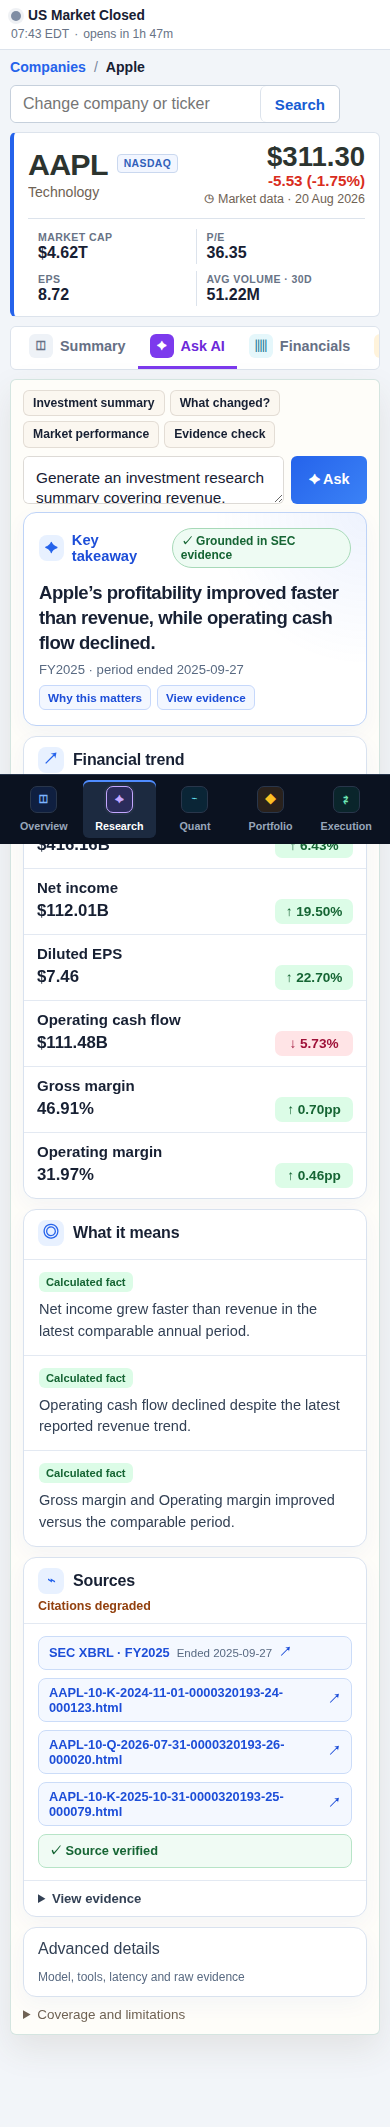
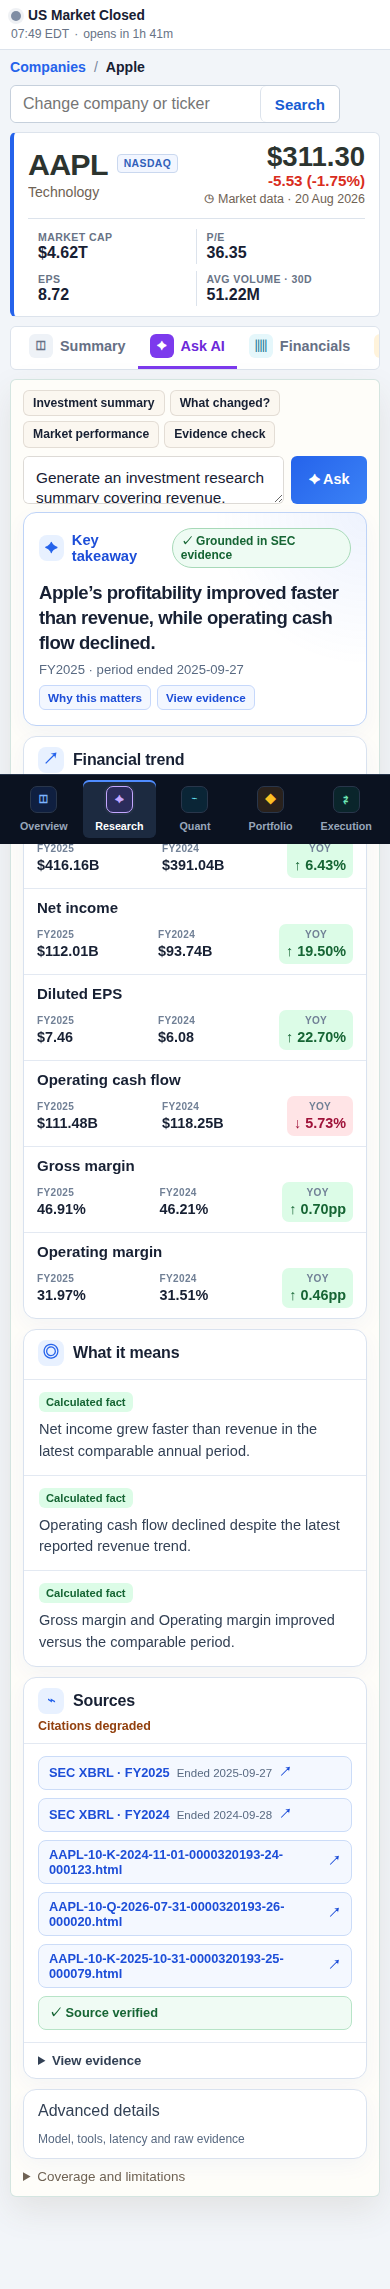
Add prior-period financial comparisons

diff --git a/apps/web/app/research/research-copilot.tsx b/apps/web/app/research/research-copilot.tsx
@@ -57,6 +57,12 @@ export function ResearchAnswerResult({ answer }: { answer: ResearchAnswer }) {
   const presentation = answer.presentation;
   const view = buildResearchAnswerView(answer);
   const { takeaway, interpretations, sources, metrics } = view;
+  const currentPeriodLabel = presentation?.period.fiscal_year
+    ? `FY${presentation.period.fiscal_year}`
+    : "Latest period";
+  const previousPeriodLabel = presentation?.period.previous_fiscal_year
+    ? `FY${presentation.period.previous_fiscal_year}`
+    : "Previous period";
 
   return (
     <div className="research-answer" aria-live="polite">
@@ -86,19 +92,21 @@ export function ResearchAnswerResult({ answer }: { answer: ResearchAnswer }) {
         <section className="research-metric-comparison" aria-labelledby="research-metric-title">
           <div className="research-result-section-title">
             <div><span aria-hidden="true">↗</span><h3 id="research-metric-title">Financial trend</h3></div>
-            <small>Latest comparable annual period</small>
+            <small>{currentPeriodLabel} versus {previousPeriodLabel}</small>
           </div>
           <div className="research-metric-table" role="table" aria-label="Financial metric comparison">
             <div className="research-metric-row is-heading" role="row">
               <span role="columnheader">Metric</span>
-              <span role="columnheader">Latest period</span>
-              <span role="columnheader">Change</span>
+              <span role="columnheader">{currentPeriodLabel}</span>
+              <span role="columnheader">{previousPeriodLabel}</span>
+              <span role="columnheader">YoY</span>
             </div>
             {metrics.map((metric) => (
               <div className="research-metric-row" role="row" key={metric.key}>
                 <strong role="cell">{metric.label}</strong>
-                <span role="cell" className="research-metric-value">{metric.formatted_value}</span>
-                <span role="cell" className={`research-metric-change is-${metric.direction}`}>
+                <span role="cell" className="research-metric-value" data-label={currentPeriodLabel}>{metric.formatted_value}</span>
+                <span role="cell" className="research-metric-value is-previous" data-label={previousPeriodLabel}>{metric.formatted_previous_value ?? "—"}</span>
+                <span role="cell" className={`research-metric-change is-${metric.direction}`} data-label="YoY">
                   {metric.formatted_change}
                 </span>
               </div>

diff --git a/apps/web/app/globals.css b/apps/web/app/globals.css
@@ -5181,7 +5181,7 @@ select {
 
 .research-metric-row {
   display: grid;
-  grid-template-columns: minmax(190px, 1.35fr) minmax(130px, 0.7fr) minmax(110px, 0.55fr);
+  grid-template-columns: minmax(190px, 1.25fr) minmax(125px, 0.7fr) minmax(125px, 0.7fr) minmax(100px, 0.5fr);
   align-items: center;
   min-height: 52px;
   padding: 0 16px;
@@ -5210,6 +5210,16 @@ select {
   font-size: 1.05rem;
   font-variant-numeric: tabular-nums;
   font-weight: 780;
+}
+
+.research-metric-value.is-previous {
+  color: #c6d2e1;
+  font-weight: 680;
+}
+
+.research-metric-value::before,
+.research-metric-change::before {
+  display: none;
 }
 
 .research-metric-change {
@@ -5671,8 +5681,8 @@ select {
   }
 
   .research-metric-row {
-    grid-template-columns: 1fr auto;
-    gap: 3px 12px;
+    grid-template-columns: minmax(0, 1fr) minmax(0, 1fr) auto;
+    gap: 8px 10px;
     padding: 10px 13px;
   }
 
@@ -5682,6 +5692,30 @@ select {
 
   .research-metric-row > strong {
     grid-column: 1 / -1;
+  }
+
+  .research-metric-value,
+  .research-metric-change {
+    min-width: 0;
+    font-size: 0.9rem;
+  }
+
+  .research-metric-value::before,
+  .research-metric-change::before {
+    content: attr(data-label);
+    display: block;
+    margin-bottom: 3px;
+    color: #718096;
+    font-size: 0.63rem;
+    font-weight: 750;
+    letter-spacing: 0.03em;
+    text-transform: uppercase;
+  }
+
+  .research-metric-change {
+    display: block;
+    padding: 5px 7px;
+    text-align: center;
   }
 
   .research-interpretation li {

diff --git a/apps/web/lib/api.ts b/apps/web/lib/api.ts
@@ -925,6 +925,7 @@ export type ResearchEvidence = {
 
 export type ResearchPresentationSourceDetail = {
   evidence_id?: string | null;
+  period_end?: string | null;
   provider: string;
   taxonomy?: string | null;
   concept?: string | null;
@@ -943,11 +944,14 @@ export type ResearchPresentationMetric = {
   value: number | null;
   unit: string;
   formatted_value: string;
+  previous_value?: number | null;
+  formatted_previous_value?: string;
   change?: number | null;
   change_unit: "percent" | "percentage_points";
   formatted_change: string;
   direction: "up" | "down" | "flat" | "unavailable";
   period_end?: string | null;
+  previous_period_end?: string | null;
   calculation?: string;
   sources: ResearchPresentationSourceDetail[];
 };
@@ -961,6 +965,8 @@ export type ResearchPresentation = {
     basis?: "annual" | "quarterly" | null;
     fiscal_year?: number | null;
     end_date?: string | null;
+    previous_fiscal_year?: number | null;
+    previous_end_date?: string | null;
   };
   metrics: ResearchPresentationMetric[];
   interpretations: Array<{ kind: "deterministic" | "model_inference"; text: string }>;

diff --git a/apps/web/app/research/research-answer-view.test.ts b/apps/web/app/research/research-answer-view.test.ts
@@ -40,6 +40,8 @@ function answerFixture(): ResearchAnswer {
         value: 416_161_000_000,
         unit: "USD",
         formatted_value: "$416.16B",
+        previous_value: 391_035_000_000,
+        formatted_previous_value: "$391.04B",
         change: 6.43,
         change_unit: "percent",
         formatted_change: "↑ 6.43%",
@@ -74,6 +76,7 @@ test("uses server presentation fields instead of parsing the raw answer", () => 
   const view = buildResearchAnswerView(answerFixture());
   assert.equal(view.takeaway, "Apple’s profitability improved faster than revenue, while operating cash flow declined.");
   assert.equal(view.metrics[0].formatted_value, "$416.16B");
+  assert.equal(view.metrics[0].formatted_previous_value, "$391.04B");
   assert.equal(view.metrics[0].formatted_change, "↑ 6.43%");
   assert.equal(view.takeaway.includes("us_stock_daily_metrics"), false);
   assert.equal(view.takeaway.includes("6.80000000000001"), false);

diff --git a/apps/api/app/services/research.py b/apps/api/app/services/research.py
@@ -713,10 +713,11 @@ def _format_presentation_change(value: Any, *, percentage_points: bool = False) 
 
 
 def _financial_source_detail(
-    *, fact: dict[str, Any], evidence_id: str | None = None
+    *, fact: dict[str, Any], evidence_id: str | None = None, period_end: str | None = None
 ) -> dict[str, Any]:
     return {
         "evidence_id": evidence_id,
+        "period_end": period_end,
         "provider": "SEC XBRL Company Facts",
         "taxonomy": fact.get("taxonomy"),
         "concept": fact.get("concept"),
@@ -778,41 +779,74 @@ def _build_research_presentation(
 ) -> dict[str, Any]:
     """Build customer-facing fields entirely from server-side structured evidence."""
     latest = (financial_summary or {}).get("latest_annual") or {}
+    previous = (financial_summary or {}).get("previous_annual") or {}
     facts = latest.get("metrics") or {}
     derived = latest.get("derived") or {}
+    previous_facts = previous.get("metrics") or {}
+    previous_derived = previous.get("derived") or {}
     changes = (financial_summary or {}).get("annual_changes") or {}
     end_date = latest.get("end_date")
     fiscal_year = latest.get("fiscal_year")
+    previous_end_date = previous.get("end_date")
+    previous_fiscal_year = previous.get("fiscal_year")
+    if (
+        fiscal_year is not None
+        and previous_fiscal_year is not None
+        and previous_end_date
+        and end_date
+        and str(previous_end_date) < str(end_date)
+        and int(previous_fiscal_year) >= int(fiscal_year)
+    ):
+        # SEC comparative facts may retain the filing's FY context even though
+        # their period end belongs to the preceding fiscal year.
+        previous_fiscal_year = int(fiscal_year) - 1
     metrics: list[dict[str, Any]] = []
 
     for key, label in PRESENTATION_METRICS:
         fact = facts.get(key)
         if not fact:
             continue
+        previous_fact = previous_facts.get(key) or {}
         formatted_change, direction = _format_presentation_change(changes.get(key))
+        source_details = [
+            _financial_source_detail(
+                fact=fact,
+                evidence_id=f"sec-xbrl-{key}-{end_date}" if end_date else None,
+                period_end=end_date,
+            )
+        ]
+        if previous_fact:
+            source_details.append(
+                _financial_source_detail(
+                    fact=previous_fact,
+                    evidence_id=f"sec-xbrl-{key}-{previous_end_date}" if previous_end_date else None,
+                    period_end=previous_end_date,
+                )
+            )
         metrics.append({
             "key": key,
             "label": label,
             "value": fact.get("value"),
             "unit": fact.get("unit"),
             "formatted_value": _format_presentation_value(fact.get("value"), fact.get("unit")),
+            "previous_value": previous_fact.get("value"),
+            "formatted_previous_value": _format_presentation_value(
+                previous_fact.get("value"), previous_fact.get("unit") or fact.get("unit")
+            ),
             "change": _numeric(changes.get(key)),
             "change_unit": "percent",
             "formatted_change": formatted_change,
             "direction": direction,
             "period_end": end_date,
-            "sources": [
-                _financial_source_detail(
-                    fact=fact,
-                    evidence_id=f"sec-xbrl-{key}-{end_date}" if end_date else None,
-                )
-            ],
+            "previous_period_end": previous_end_date,
+            "sources": source_details,
         })
 
     for key, label, source_keys, calculation in PRESENTATION_MARGINS:
         value = _numeric(derived.get(key))
         if value is None:
             continue
+        previous_value = _numeric(previous_derived.get(key))
         formatted_change, direction = _format_presentation_change(
             changes.get(key), percentage_points=True
         )
@@ -820,21 +854,34 @@ def _build_research_presentation(
             _financial_source_detail(
                 fact=facts[source_key],
                 evidence_id=f"sec-xbrl-{source_key}-{end_date}" if end_date else None,
+                period_end=end_date,
             )
             for source_key in source_keys
             if facts.get(source_key)
         ]
+        source_details.extend(
+            _financial_source_detail(
+                fact=previous_facts[source_key],
+                evidence_id=f"sec-xbrl-{source_key}-{previous_end_date}" if previous_end_date else None,
+                period_end=previous_end_date,
+            )
+            for source_key in source_keys
+            if previous_facts.get(source_key)
+        )
         metrics.append({
             "key": key,
             "label": label,
             "value": value,
             "unit": "percent",
             "formatted_value": _format_presentation_value(value, "percent"),
+            "previous_value": previous_value,
+            "formatted_previous_value": _format_presentation_value(previous_value, "percent"),
             "change": _numeric(changes.get(key)),
             "change_unit": "percentage_points",
             "formatted_change": formatted_change,
             "direction": direction,
             "period_end": end_date,
+            "previous_period_end": previous_end_date,
             "calculation": calculation,
             "sources": source_details,
         })
@@ -880,6 +927,24 @@ def _build_research_presentation(
             "source_url": first_source.get("source_url"),
             "verified": True,
         })
+        if previous_end_date:
+            previous_source = next(
+                (
+                    source
+                    for metric in metrics
+                    for source in metric.get("sources") or []
+                    if source.get("period_end") == previous_end_date
+                ),
+                {},
+            )
+            source_references.append({
+                "id": f"sec-xbrl-{previous_end_date}",
+                "label": f"SEC XBRL · FY{previous_fiscal_year}" if previous_fiscal_year else "SEC XBRL · previous period",
+                "provider": "SEC",
+                "period_end": previous_end_date,
+                "source_url": previous_source.get("source_url"),
+                "verified": True,
+            })
     seen_documents: set[str] = set()
     for item in document_evidence:
         document_id = str(item.get("document_id") or item.get("id") or "")
@@ -900,7 +965,7 @@ def _build_research_presentation(
         })
 
     return {
-        "version": "research_presentation_v1",
+        "version": "research_presentation_v2",
         "kind": "financial_trend" if metrics else "narrative",
         "takeaway": takeaway,
         "takeaway_kind": "deterministic_summary" if metrics else "source_grounded_answer",
@@ -908,6 +973,8 @@ def _build_research_presentation(
             "basis": "annual" if metrics else None,
             "fiscal_year": fiscal_year,
             "end_date": end_date,
+            "previous_fiscal_year": previous_fiscal_year,
+            "previous_end_date": previous_end_date,
         },
         "metrics": metrics,
         "interpretations": interpretations[:3],

diff --git a/tests/test_research_service.py b/tests/test_research_service.py
@@ -53,6 +53,20 @@ class ResearchServiceTests(unittest.TestCase):
                 },
                 "derived": {"gross_margin_pct": 46.91, "operating_margin_pct": 31.97},
             },
+            "previous_annual": {
+                "end_date": "2024-09-28",
+                # SEC comparative facts can carry the current filing's FY context.
+                "fiscal_year": 2025,
+                "metrics": {
+                    "revenue": fact("Revenue", 391_035_000_000, "RevenueFromContractWithCustomerExcludingAssessedTax"),
+                    "gross_profit": fact("Gross profit", 180_683_000_000, "GrossProfit"),
+                    "operating_income": fact("Operating income", 123_216_000_000, "OperatingIncomeLoss"),
+                    "net_income": fact("Net income", 93_736_000_000, "NetIncomeLoss"),
+                    "eps_diluted": fact("Diluted EPS", 6.08, "EarningsPerShareDiluted", "USD/shares"),
+                    "operating_cash_flow": fact("Operating cash flow", 118_254_000_000, "NetCashProvidedByUsedInOperatingActivities"),
+                },
+                "derived": {"gross_margin_pct": 46.21, "operating_margin_pct": 31.47},
+            },
             "annual_changes": {
                 "revenue": 6.43,
                 "net_income": 19.50,
@@ -73,11 +87,16 @@ class ResearchServiceTests(unittest.TestCase):
 
         metrics = {item["key"]: item for item in presentation["metrics"]}
         self.assertEqual(metrics["revenue"]["formatted_value"], "$416.16B")
+        self.assertEqual(metrics["revenue"]["formatted_previous_value"], "$391.04B")
         self.assertEqual(metrics["revenue"]["formatted_change"], "↑ 6.43%")
         self.assertEqual(metrics["net_income"]["formatted_value"], "$112.01B")
         self.assertEqual(metrics["eps_diluted"]["formatted_value"], "$7.46")
         self.assertEqual(metrics["operating_cash_flow"]["formatted_change"], "↓ 5.73%")
         self.assertEqual(metrics["gross_margin_pct"]["formatted_change"], "↑ 0.70pp")
+        self.assertEqual(metrics["gross_margin_pct"]["formatted_previous_value"], "46.21%")
+        self.assertEqual(presentation["period"]["previous_fiscal_year"], 2024)
+        self.assertEqual(presentation["sources"][1]["label"], "SEC XBRL · FY2024")
+        self.assertEqual(len(metrics["revenue"]["sources"]), 2)
         self.assertNotIn("6.80000000000001", json.dumps(presentation))
         self.assertNotIn("us_stock_daily_metrics", presentation["takeaway"])
         self.assertEqual(
